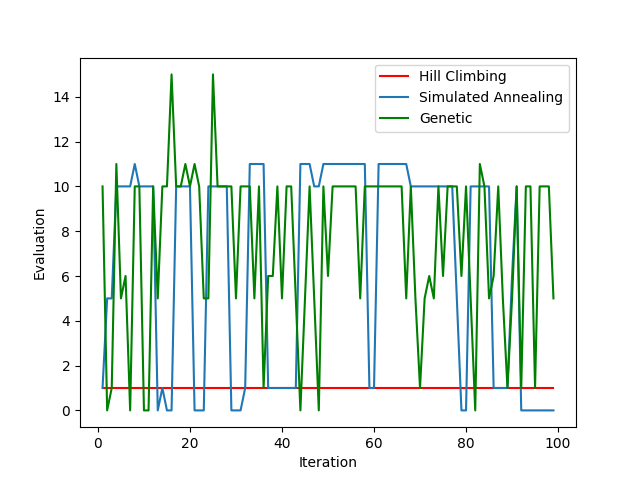
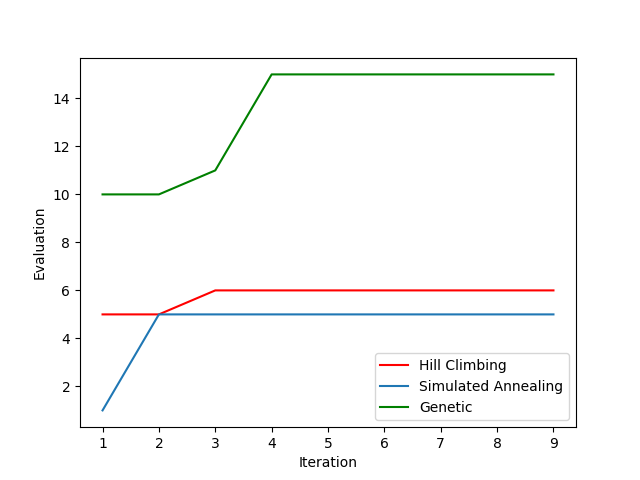
Added genetic line plot

diff --git a/graphs.py b/graphs.py
@@ -12,35 +12,45 @@ import time
 
 from multiprocessing import Process as worker, Queue
 
+RUNS = 1
+
 
 def timed_genetic(data_center, iterations, neighbour_modes, initial_solution, population_size, mutation_chance, replaced_each_generation, i, res):
     print("Starting Genetic nº", i)
     sol_GA = [0,0]
-    start_time = time.time()
-    temp_GA, _ = genetic(data_center, initial_solution, neighbour_modes, iterations, population_size, mutation_chance, replaced_each_generation)
-    sol_GA[0] += evaluate_solution(temp_GA,data_center)
-    sol_GA[1] += time.time()-start_time
+    for run in range(RUNS):
+        start_time = time.time()
+        temp_GA, y_axis_GA = genetic(data_center, initial_solution, neighbour_modes, iterations, population_size, mutation_chance, replaced_each_generation)
+        sol_GA[0] += evaluate_solution(temp_GA,data_center)
+        sol_GA[1] += time.time()-start_time
     print("Finished Genetic nº", i)
-    res.put([sol_GA, i])
+    res.put([sol_GA,y_axis_GA, i])
+
+def timed_hill_climbing(data_center,iterations, initial_solution,i,res):
+    print("Starting Hill Climbing")
+    sol_HC = [0,0]
+
+    for run in range(RUNS):
+        start_time = time.time()
+        temp_HC, y_axis_HC = hill_climbing_basic(data_center, iterations, initial_solution)
+        sol_HC[0] = evaluate_solution(temp_HC,data_center)
+        sol_HC[1] = time.time()-start_time
+    print("Finished Hill Climbing")
+    res.put([sol_HC,y_axis_HC,i])
+
 
 def plot_genetic(data_center, iterations, neighbour_modes):
-    runs = 1
     initial_solution = random_solution(data_center)
     ga_values = [[0,0] for x in range(7)]
-
-    sol_HC = [0,0]
-    start_time = time.time()
-    temp_HC, _ = hill_climbing_basic(data_center, iterations, initial_solution)
-    sol_HC[0] = evaluate_solution(temp_HC,data_center)
-    sol_HC[1] = time.time()-start_time
-    ga_values[0] = sol_HC
 
     population_size = 80
     threads = []
 
-    iterations = iterations
-
     res = Queue()
+
+    process = worker(target=timed_hill_climbing, args=(data_center, iterations, initial_solution,0,res))
+    process.start()
+    threads.append(process)
 
     process = worker(target=timed_genetic, args=(data_center, iterations,neighbour_modes, initial_solution, population_size, 1, 1,1,res))
     process.start()
@@ -69,13 +79,16 @@ def plot_genetic(data_center, iterations, neighbour_modes):
     # We now pause execution on the main thread by 'joining' all of our started threads.
     # This ensures that each has finished processing the urls.
     for process in threads:
-        sol, i = res.get()
-        ga_values[i] = sol
+        sol, y_axis, i = res.get()
+        ga_values[i] = sol[0], sol[1],y_axis
         process.join()
 
-    print(ga_values)
-    evaluations = [v[0]/runs for v in ga_values]
-    times = [v[1]/runs for v in ga_values]
+    evaluations = [v[0]/RUNS for v in ga_values]
+    times = [v[1]/RUNS for v in ga_values]
+    time_label = "time (sec)"
+    if(max(times) > max(evaluations)):
+        times = [t/10 for t in times]
+        time_label = "time (decasec)"
     algorithms = ["Hill\nClimbing", 
     "100% MUT\n100% REG",
     '10% MUT\n100% REG',
@@ -87,12 +100,22 @@ def plot_genetic(data_center, iterations, neighbour_modes):
     x_axis = np.arange(len(algorithms))
     pyplot.figure(figsize=(8, 5))
     pyplot.bar(x_axis - 0.2, evaluations,width=0.4,color='red', label='value')
-    pyplot.bar(x_axis + 0.2, times,width=0.4, color = 'pink', label='time')
-    pyplot.legend()
+    pyplot.bar(x_axis + 0.2, times,width=0.4, color = 'pink', label=time_label)
+    pyplot.legend(loc=(1.05,0.5))
     pyplot.xticks(x_axis, algorithms)
     pyplot.title('Genetic Algorithm')
-    pyplot.savefig('plots/genetic.png')
-    pyplot.show()
+    pyplot.savefig('plots/genetic_bar.png',bbox_inches='tight')
+    pyplot.clf()
+
+    x_axis = list(range(1, iterations))
+    colors = ['blue', 'cyan', 'green', 'yellow', 'orange','red','purple']
+    for i, v in enumerate(ga_values):
+        pyplot.plot(x_axis, v[2], color = colors[i])
+
+    pyplot.legend(algorithms,loc=(1.05,0.5))
+    pyplot.ylabel('Evaluation')
+    pyplot.xlabel('Iteration')
+    pyplot.savefig('plots/genetic_line.png',bbox_inches='tight')
 
 
 

diff --git a/main.py b/main.py
@@ -76,11 +76,7 @@ if __name__ == '__main__':
         sol_GA, y_axis_GA = genetic(data_center, initial_solution, neighbour_modes, iterations, 100, 1,1)
         sol_SA, y_axis_SA = simulated_annealing(data_center, iterations, 100, linear_schedule)
         x_axis = list(range(1, iterations))
-        
-        print(len(y_axis_HC))
-
-        print(len(y_axis_GA))
-        print(len(y_axis_SA))
+    
         pyplot.plot(x_axis, y_axis_HC, color = 'red')
         pyplot.plot(x_axis, y_axis_SA)
         pyplot.plot(x_axis, y_axis_GA, color = 'green')
@@ -88,6 +84,7 @@ if __name__ == '__main__':
         pyplot.ylabel('Evaluation')
         pyplot.xlabel('Iteration')
         pyplot.savefig('plots/all.png')
+        pyplot.show()
         pyplot.clf()
         exit()
     elif algorithm == 'plotgenetic':

diff --git a/src/algorithms/genetic.py b/src/algorithms/genetic.py
@@ -21,13 +21,11 @@ def genetic(config: DataCenter, solution: Solution, neighbour_modes,generations,
     # Generate generations
     for gen in range(generations -1):
         population = get_new_population(population, config, mutation_chance, neighbour_modes, replaced_each_generation)
-        currBest = population[0]
         # Get best solution of current population
         for sol in population:
             if evaluate_solution(sol, config) > evaluate_solution(bestSolution, config):
                 bestSolution = sol
-                currBest  = sol
-        evaluations.append(evaluate_solution(currBest,config))
+        evaluations.append(evaluate_solution(bestSolution,config))
 
     return bestSolution, evaluations
 
